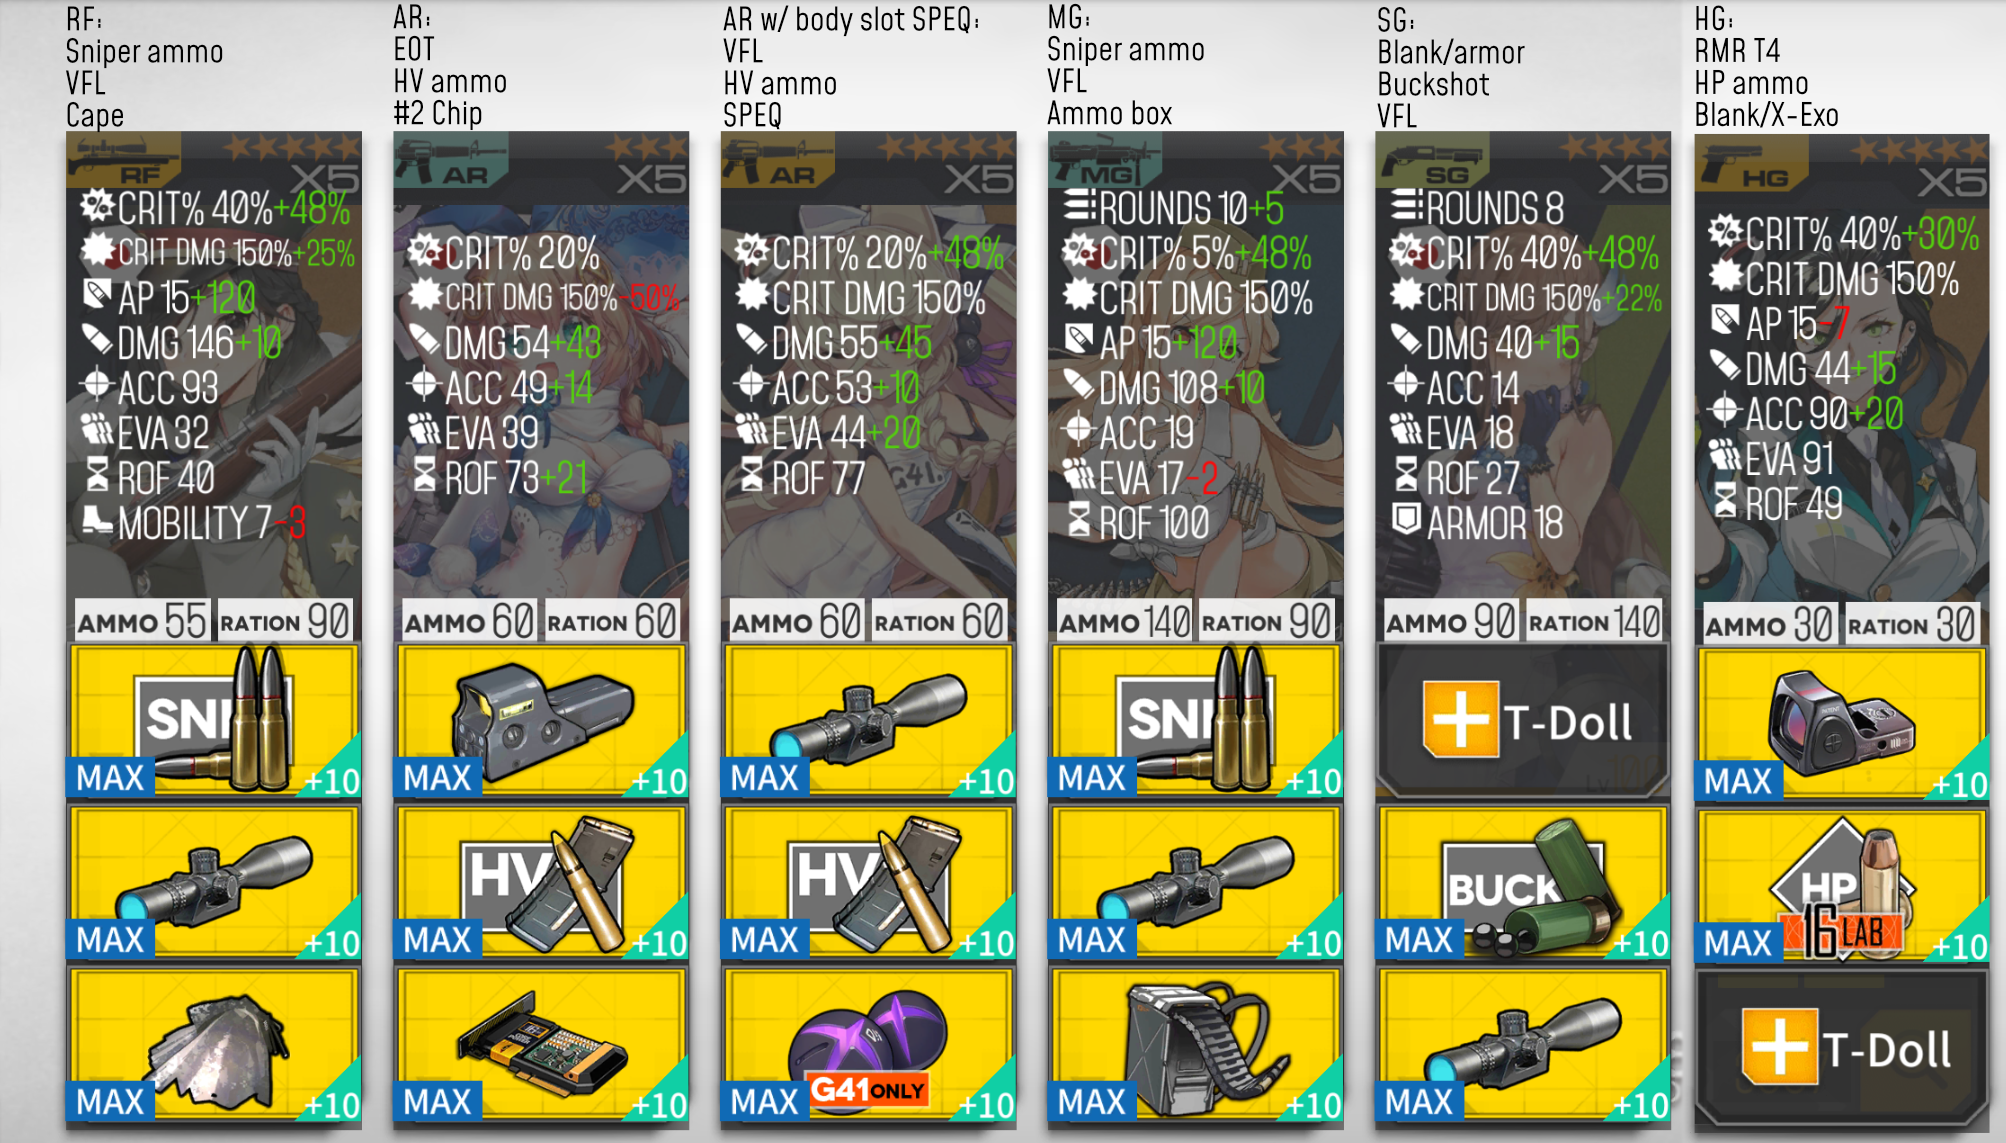
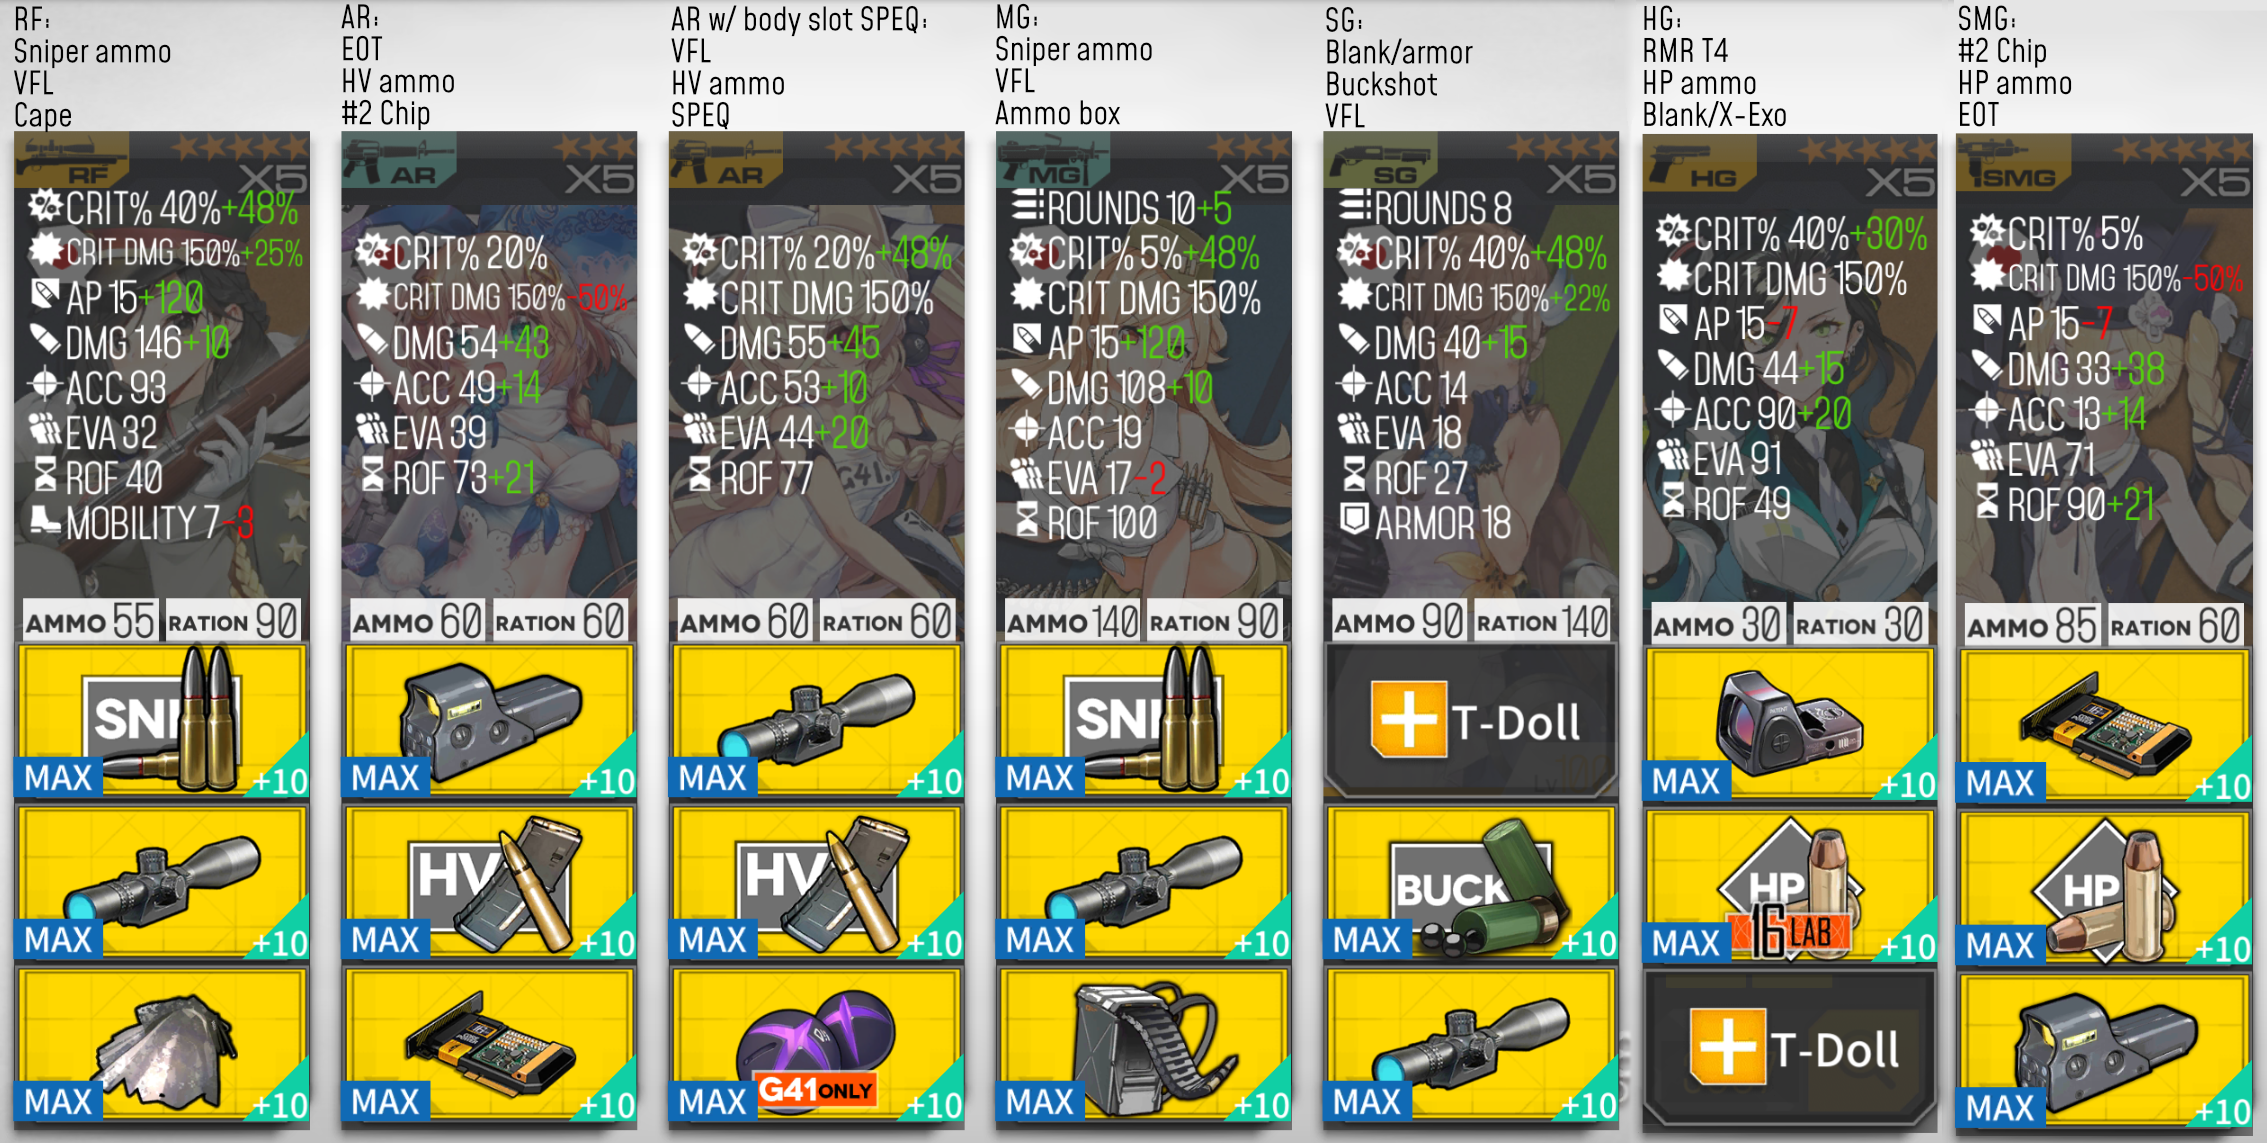
datasim: better equip guide

diff --git a/pages/datasim.html b/pages/datasim.html
@@ -83,16 +83,14 @@ gtag('config', 'G-805N997DPC');
 	<li>Ammo boxes aren't needed for the fastest times, but are important insurance for slower teams. M1918's SPEQ there has a damage penalty and is thus worse for speed.</li>
 	<li>Many MG scope SPEQs are better than an RMR, but worse than a VFL vs 0 evasion.</li>
 </ul>
-<p>
-	SMGs generally shouldn't be used, but would use a chip/HP ammo/EOT.
-</p>
+
 <h3>Formation</h3>
 <p>
 	Don't use normal echelon formations in datasim.
 	You have two priorities:
 </p>
 <ol>
-	<li>Optimize tile coverage for damage output</li>
+	<li>Optimize tile coverage and composition for damage output. Basic formations are 3-4 DPS dolls (ARs/MGs/RFs) plus 1-2 HGs.</li>
 	<li>Have your DPS as close as possible to the dummy to reduce bullet travel time:</li>
 </ol>
 <center><div class="figure">
